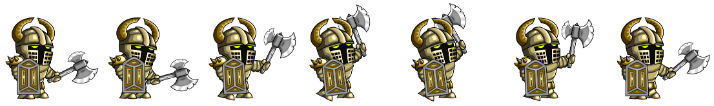
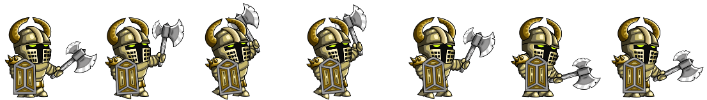
Improve axe warrior and sword warrior sprites

diff --git a/src/components/Player.vue b/src/components/Player.vue
@@ -39,8 +39,8 @@ export default {
   &.axe-warrior {
     animation: axe-warrior-idle .65s steps(7) infinite;
     background: url('../assets/images/players/axe-warrior/idle.png');
-    height: 106px;
-    width: 103px;
+    height: 100px;
+    width: 114px;
   }
 
   &.spear-warrior {
@@ -53,14 +53,14 @@ export default {
   &.sword-warrior {
     animation: sword-warrior-idle .65s steps(7) infinite;
     background: url('../assets/images/players/sword-warrior/idle.png');
-    height: 106px;
-    width: 116px;
+    height: 100px;
+    width: 120px;
   }
 }
 
 @keyframes axe-warrior-idle {
   100% {
-    background-position: -770px;
+    background-position: -833px;
   }
 }
 
@@ -72,7 +72,7 @@ export default {
 
 @keyframes sword-warrior-idle {
   100% {
-    background-position: -805px;
+    background-position: -833px;
   }
 }
 
@@ -80,8 +80,8 @@ export default {
   &.axe-warrior {
     animation: axe-warrior-walk .65s steps(7) infinite;
     background: url('../assets/images/players/axe-warrior/walk.png');
-    height: 106px;
-    width: 103px;
+    height: 100px;
+    width: 115px;
   }
 
   &.spear-warrior {
@@ -94,14 +94,14 @@ export default {
   &.sword-warrior {
     animation: sword-warrior-walk .65s steps(7) infinite;
     background: url('../assets/images/players/sword-warrior/walk.png');
-    height: 106px;
-    width: 116px;
+    height: 100px;
+    width: 118px;
   }
 }
 
 @keyframes axe-warrior-walk {
   100% {
-    background-position: -791px;
+    background-position: -847px;
   }
 }
 
@@ -113,7 +113,7 @@ export default {
 
 @keyframes sword-warrior-walk {
   100% {
-    background-position: -833px;
+    background-position: -839px;
   }
 }
 
@@ -121,7 +121,7 @@ export default {
   &.axe-warrior {
     animation: axe-warrior-attack .65s steps(7) infinite;
     background: url('../assets/images/players/axe-warrior/attack.png');
-    height: 106px;
+    height: 100px;
     width: 100px;
   }
 
@@ -135,14 +135,14 @@ export default {
   &.sword-warrior {
     animation: sword-warrior-attack .65s steps(7) infinite;
     background: url('../assets/images/players/sword-warrior/attack.png');
-    height: 106px;
-    width: 100px;
+    height: 100px;
+    width: 116px;
   }
 }
 
 @keyframes axe-warrior-attack {
   100% {
-    background-position: -714px;
+    background-position: -707px;
   }
 }
 
@@ -154,7 +154,7 @@ export default {
 
 @keyframes sword-warrior-attack {
   100% {
-    background-position: -847px;
+    background-position: -812px;
   }
 }
 </style>

diff --git a/src/components/LifeBar.vue b/src/components/LifeBar.vue
@@ -10,11 +10,11 @@ export default {
 
 <style scoped>
 .life-bar-component {
-  height: 11px;
-  text-align: center;
-  font-size: .7em;
   background-color: #cc0000;
-  border: 1px solid #990000;
   border-radius: .2em;
+  border: 1px solid #990000;
+  font-size: .9em;
+  line-height: 12px;
+  text-align: center;
 }
 </style>
